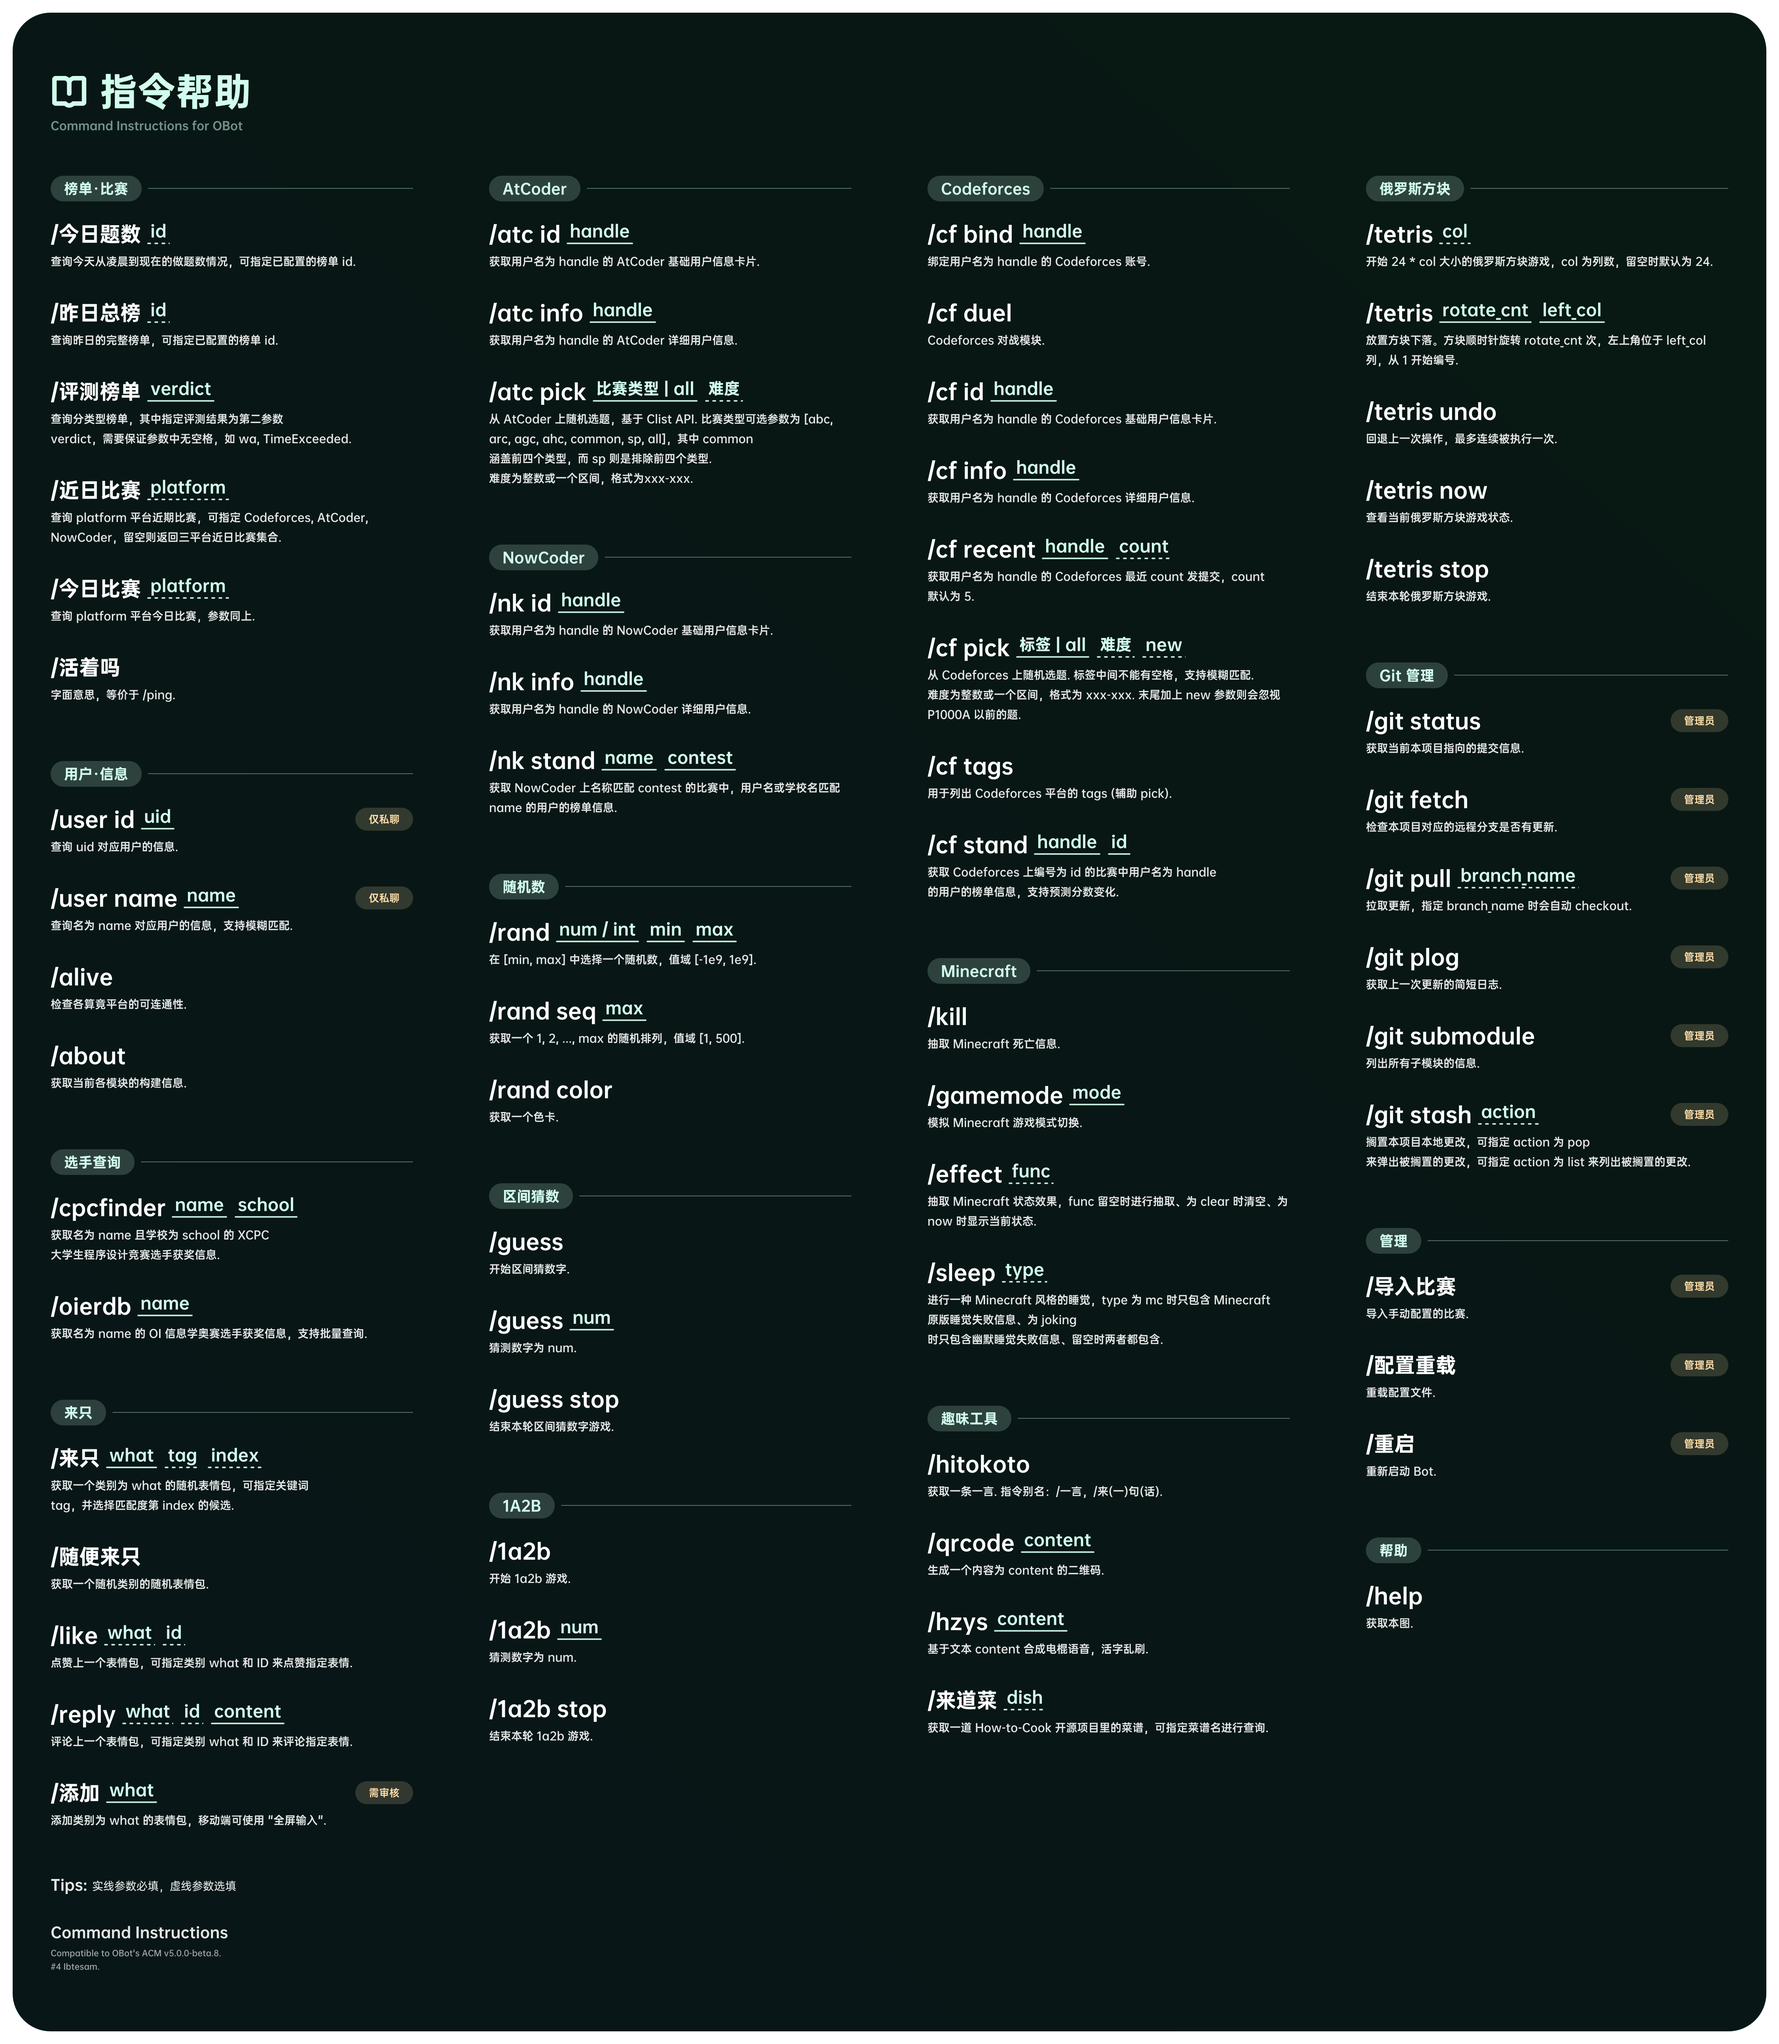
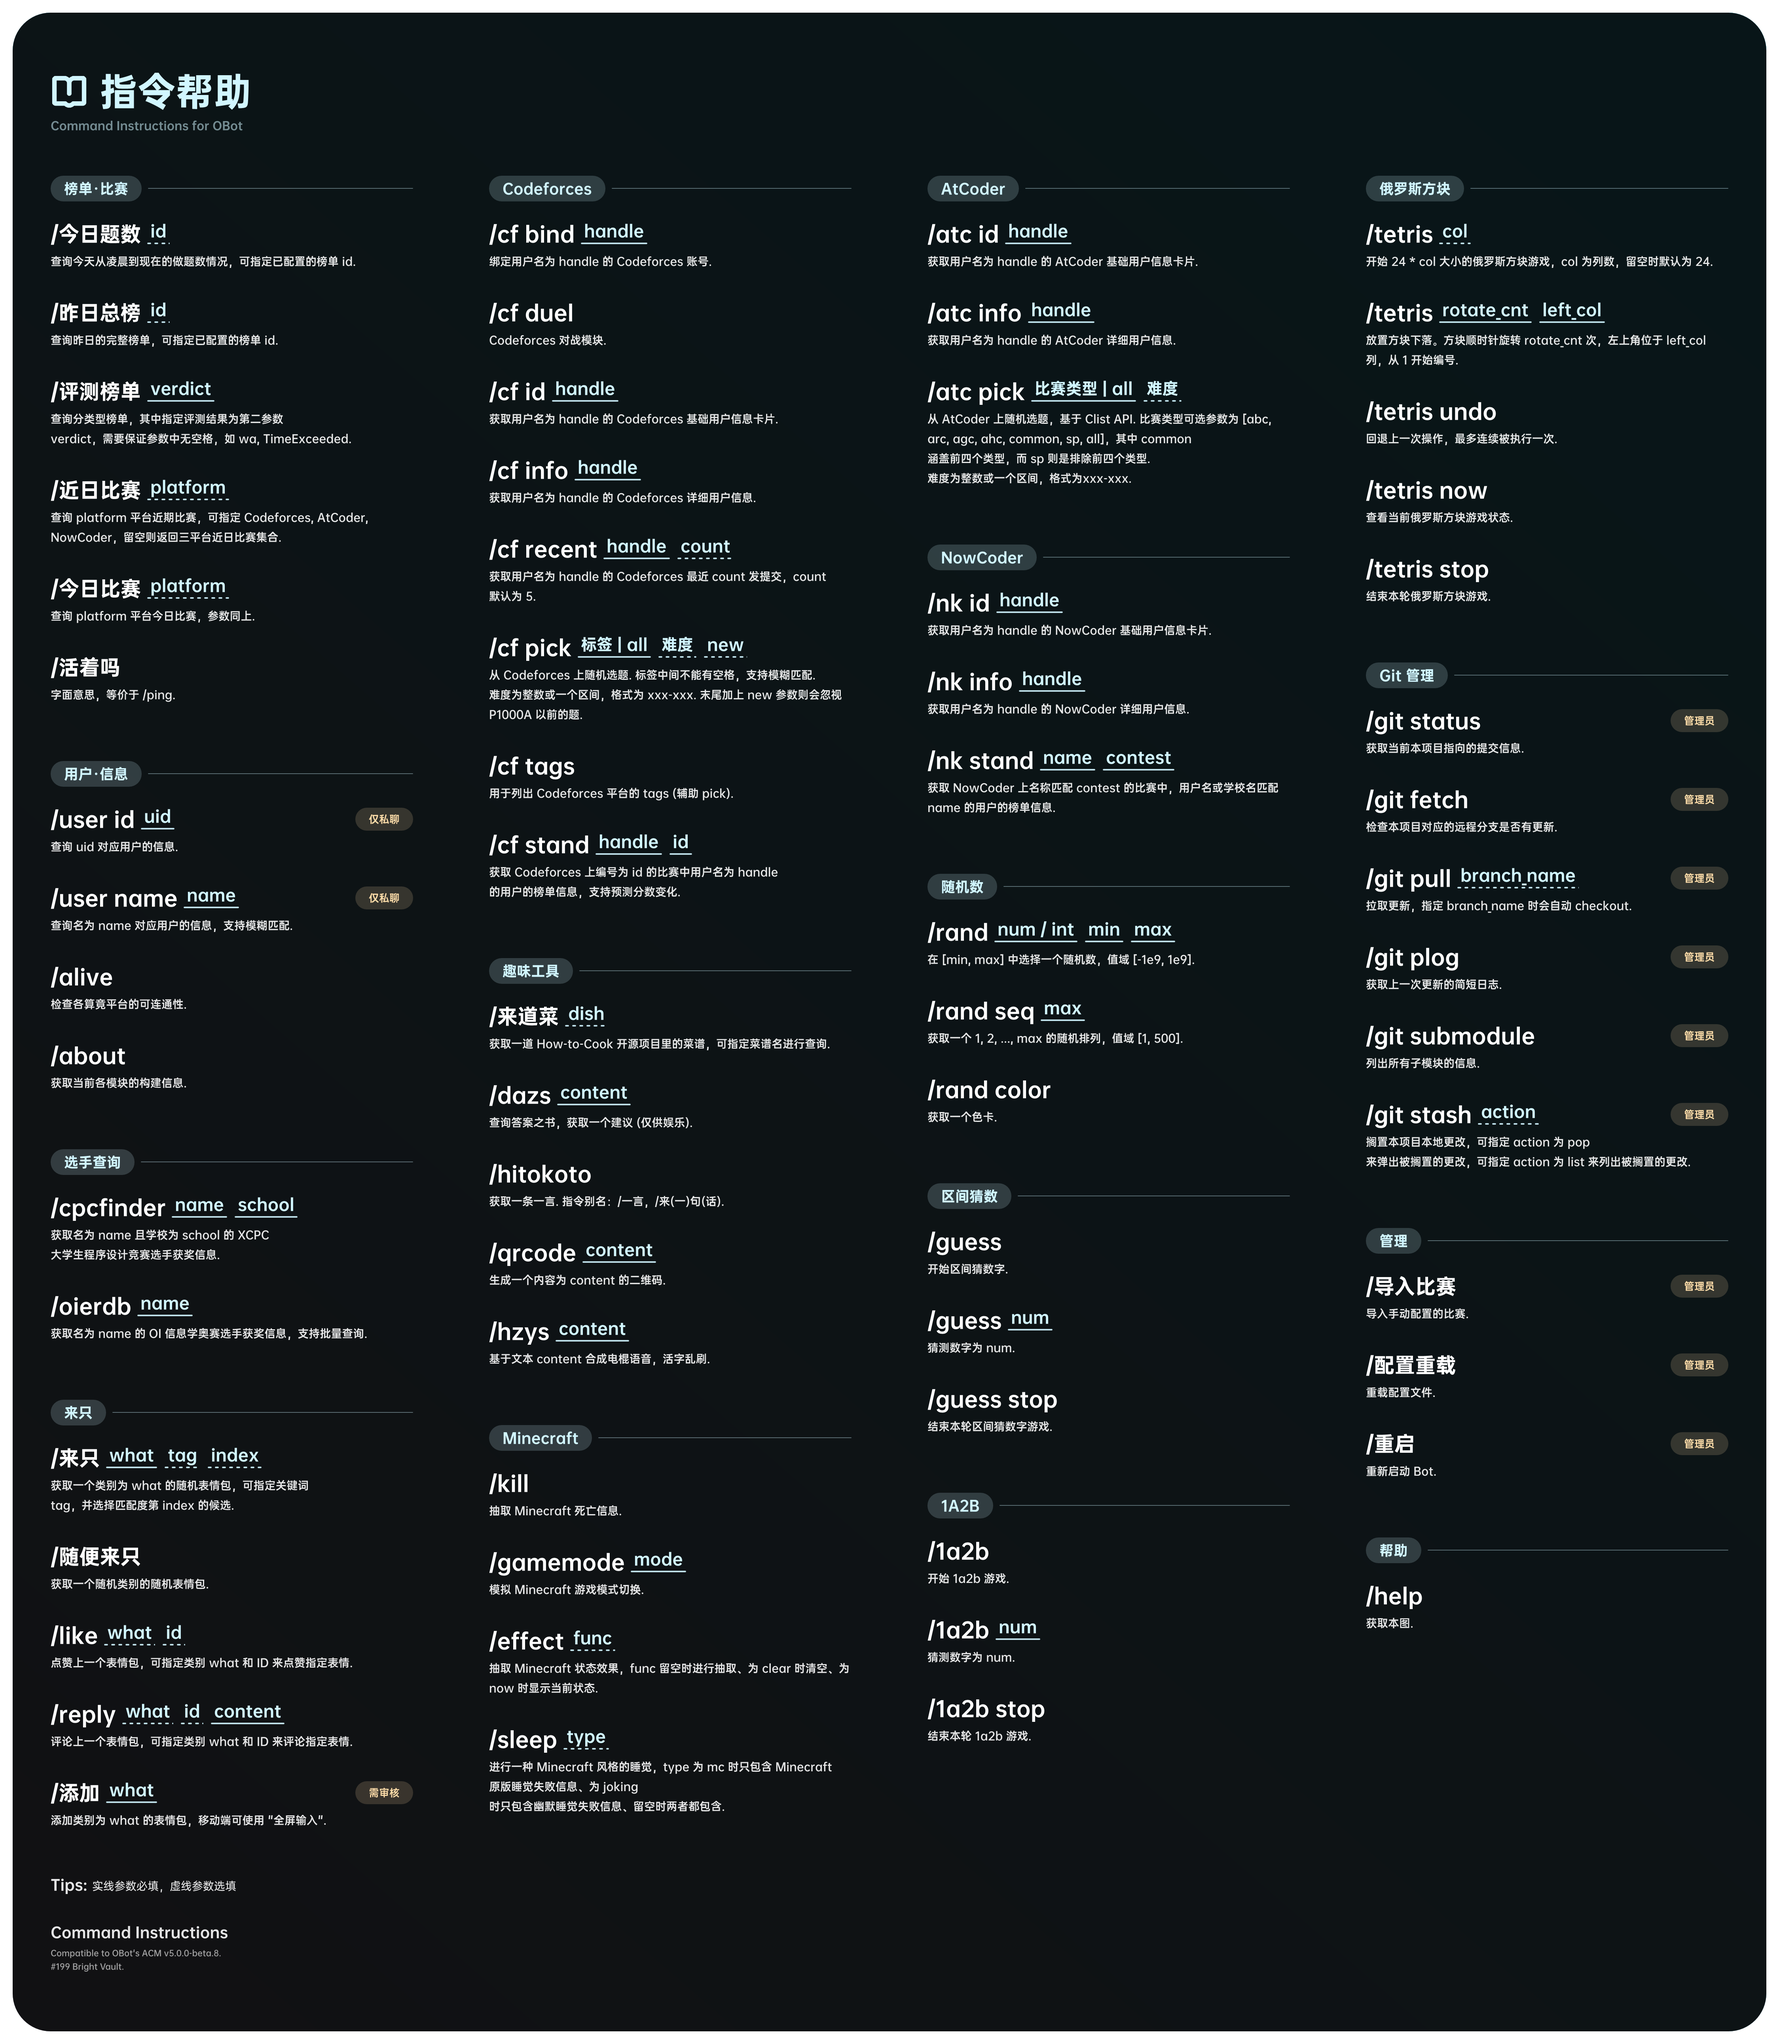
refactor(Core): 优化分栏逻辑

diff --git a/src/core/constants.py b/src/core/constants.py
@@ -170,6 +170,35 @@ class Constants:
             Help("/reply (what) (id) [content]", "评论上一个表情包，可指定类别 what 和 ID 来评论指定表情."),
             Help("/添加 [what]", "添加类别为 what 的表情包，移动端可使用 \"全屏输入\"，需要管理员审核.")
         ],
+        'codeforces': [
+            Help("/cf bind [handle]", "绑定用户名为 handle 的 Codeforces 账号."),
+            Help("/cf duel", "Codeforces 对战模块."),
+            Help("/cf id [handle]", "获取用户名为 handle 的 Codeforces 基础用户信息卡片."),
+            Help("/cf info [handle]", "获取用户名为 handle 的 Codeforces 详细用户信息."),
+            Help("/cf recent [handle] (count)",
+                 "获取用户名为 handle 的 Codeforces 最近 count 发提交，count 默认为 5."),
+            Help("/cf pick [标签 | all] (难度) (new)",
+                 "从 Codeforces 上随机选题. 标签中间不能有空格，支持模糊匹配. 难度为整数或一个区间，格式为 xxx-xxx. "
+                 "末尾加上 new 参数则会忽视 P1000A 以前的题."),
+            Help("/cf tags", "用于列出 Codeforces 平台的 tags (辅助 pick)."),
+            Help("/cf stand [handle] [id]",
+                 "获取 Codeforces 上编号为 id 的比赛中用户名为 handle 的用户的榜单信息，支持预测分数变化.")
+        ],
+        'misc1': [
+            Help("/来道菜 (dish)", "获取一道 How-to-Cook 开源项目里的菜谱，可指定菜谱名进行查询."),
+            Help("/dazs [content]", "查询答案之书，获取一个建议 (仅供娱乐)."),
+            Help("/hitokoto", "获取一条一言. 指令别名：/一言，/来(一)句(话)."),
+            Help("/qrcode [content]", "生成一个内容为 content 的二维码."),
+            Help("/hzys [content]", "基于文本 content 合成电棍语音，活字乱刷.")
+        ],
+        'mc': [
+            Help("/kill", "抽取 Minecraft 死亡信息."),
+            Help("/gamemode [mode]", "模拟 Minecraft 游戏模式切换."),
+            Help("/effect (func)", "抽取 Minecraft 状态效果，func 留空时进行抽取、为 clear 时清空、为 now 时显示当前状态."),
+            Help("/sleep (type)",
+                 "进行一种 Minecraft 风格的睡觉，type 为 mc 时只包含 Minecraft 原版睡觉失败信息、"
+                 "为 joking 时只包含幽默睡觉失败信息、留空时两者都包含."),
+        ],
         'atcoder': [
             Help("/atc id [handle]", "获取用户名为 handle 的 AtCoder 基础用户信息卡片."),
             Help("/atc info [handle]", "获取用户名为 handle 的 AtCoder 详细用户信息."),
@@ -197,34 +226,6 @@ class Constants:
             Help("/1a2b", "开始 1a2b 游戏."),
             Help("/1a2b [num]", "猜测数字为 num."),
             Help("/1a2b stop", "结束本轮 1a2b 游戏.")
-        ],
-        'codeforces': [
-            Help("/cf bind [handle]", "绑定用户名为 handle 的 Codeforces 账号."),
-            Help("/cf duel", "Codeforces 对战模块."),
-            Help("/cf id [handle]", "获取用户名为 handle 的 Codeforces 基础用户信息卡片."),
-            Help("/cf info [handle]", "获取用户名为 handle 的 Codeforces 详细用户信息."),
-            Help("/cf recent [handle] (count)",
-                 "获取用户名为 handle 的 Codeforces 最近 count 发提交，count 默认为 5."),
-            Help("/cf pick [标签 | all] (难度) (new)",
-                 "从 Codeforces 上随机选题. 标签中间不能有空格，支持模糊匹配. 难度为整数或一个区间，格式为 xxx-xxx. "
-                 "末尾加上 new 参数则会忽视 P1000A 以前的题."),
-            Help("/cf tags", "用于列出 Codeforces 平台的 tags (辅助 pick)."),
-            Help("/cf stand [handle] [id]",
-                 "获取 Codeforces 上编号为 id 的比赛中用户名为 handle 的用户的榜单信息，支持预测分数变化.")
-        ],
-        'mc': [
-            Help("/kill", "抽取 Minecraft 死亡信息."),
-            Help("/gamemode [mode]", "模拟 Minecraft 游戏模式切换."),
-            Help("/effect (func)", "抽取 Minecraft 状态效果，func 留空时进行抽取、为 clear 时清空、为 now 时显示当前状态."),
-            Help("/sleep (type)",
-                 "进行一种 Minecraft 风格的睡觉，type 为 mc 时只包含 Minecraft 原版睡觉失败信息、"
-                 "为 joking 时只包含幽默睡觉失败信息、留空时两者都包含."),
-        ],
-        'misc1': [
-            Help("/hitokoto", "获取一条一言. 指令别名：/一言，/来(一)句(话)."),
-            Help("/qrcode [content]", "生成一个内容为 content 的二维码."),
-            Help("/hzys [content]", "基于文本 content 合成电棍语音，活字乱刷."),
-            Help("/来道菜 (dish)", "获取一道 How-to-Cook 开源项目里的菜谱，可指定菜谱名进行查询.")
         ],
         'tetris': [
             Help("/tetris (col)", "开始 24 * col 大小的俄罗斯方块游戏，col 为列数，留空时默认为 24."),

diff --git a/src/render/pixie/model.py b/src/render/pixie/model.py
@@ -70,36 +70,51 @@ class RenderableSection(abc.ABC):
     def _split_columns(self,
                        sections: list["RenderableSection"],
                        section_padding: int) -> tuple[list[list["RenderableSection"]], int]:
-        """适用于嵌套且需分栏的场景，根据高度进行分栏，基于贪心策略，放不下时全部放在最后一栏"""
-        columns = self.get_columns()
-        total_height = (sum(section.get_height() for section in sections) +
-                        section_padding * (len(sections) - columns))
-        column_height = -section_padding
-        max_height = 0
+        """适用于嵌套且需分栏的场景，保持原有顺序、按高度均衡分栏：
+        二分搜索最小可行的最大列高，使各列高度尽量接近，避免某列被超高项目撑起导致其余列大量留白"""
+        if not sections:
+            return [[]], 0
 
-        height_limit = total_height / columns
-        first_column_exceeds = False
+        column_limit = max(1, min(self.get_columns(), len(sections)))
+        heights = [section.get_height() for section in sections]
+
+        def _can_fit(max_column_height: int) -> bool:
+            _used_columns = 1
+            _column_height = 0
+            for height in heights:
+                if _column_height:
+                    _column_height += section_padding
+                _column_height += height
+                if _column_height > max_column_height:
+                    _used_columns += 1
+                    _column_height = height
+                    if _used_columns > column_limit:
+                        return False
+            return True
+
+        height_low = max(heights)
+        height_high = sum(heights) + section_padding * (len(heights) - 1)
+        while height_low < height_high:
+            height_mid = (height_low + height_high) // 2
+            if _can_fit(height_mid):
+                height_high = height_mid
+            else:
+                height_low = height_mid + 1
+
         split_sections = [[]]
-
+        column_height = -section_padding
         for section in sections:
             section_height = section.get_height()
-            if len(split_sections) < columns and (
-                    column_height + section_height + section_padding > height_limit):
-                if len(split_sections) == 1:
-                    # 额外允许第一列超出一项，并将第一列作为最大高度
-                    if not first_column_exceeds:
-                        first_column_exceeds = True
-                        split_sections[-1].append(section)
-                        column_height += section_height + section_padding
-                        max_height = max(max_height, column_height)
-                        continue
-                    height_limit = column_height
+            if (len(split_sections) < column_limit and column_height >= 0 and
+                    column_height + section_padding + section_height > height_low):
                 split_sections.append([])
                 column_height = -section_padding
             split_sections[-1].append(section)
             column_height += section_height + section_padding
-            max_height = max(max_height, column_height)
 
+        max_height = max(sum(section.get_height() for section in column) +
+                         section_padding * max(0, len(column) - 1)
+                         for column in split_sections)
         return split_sections, max_height
 
     def get_columns(self):
